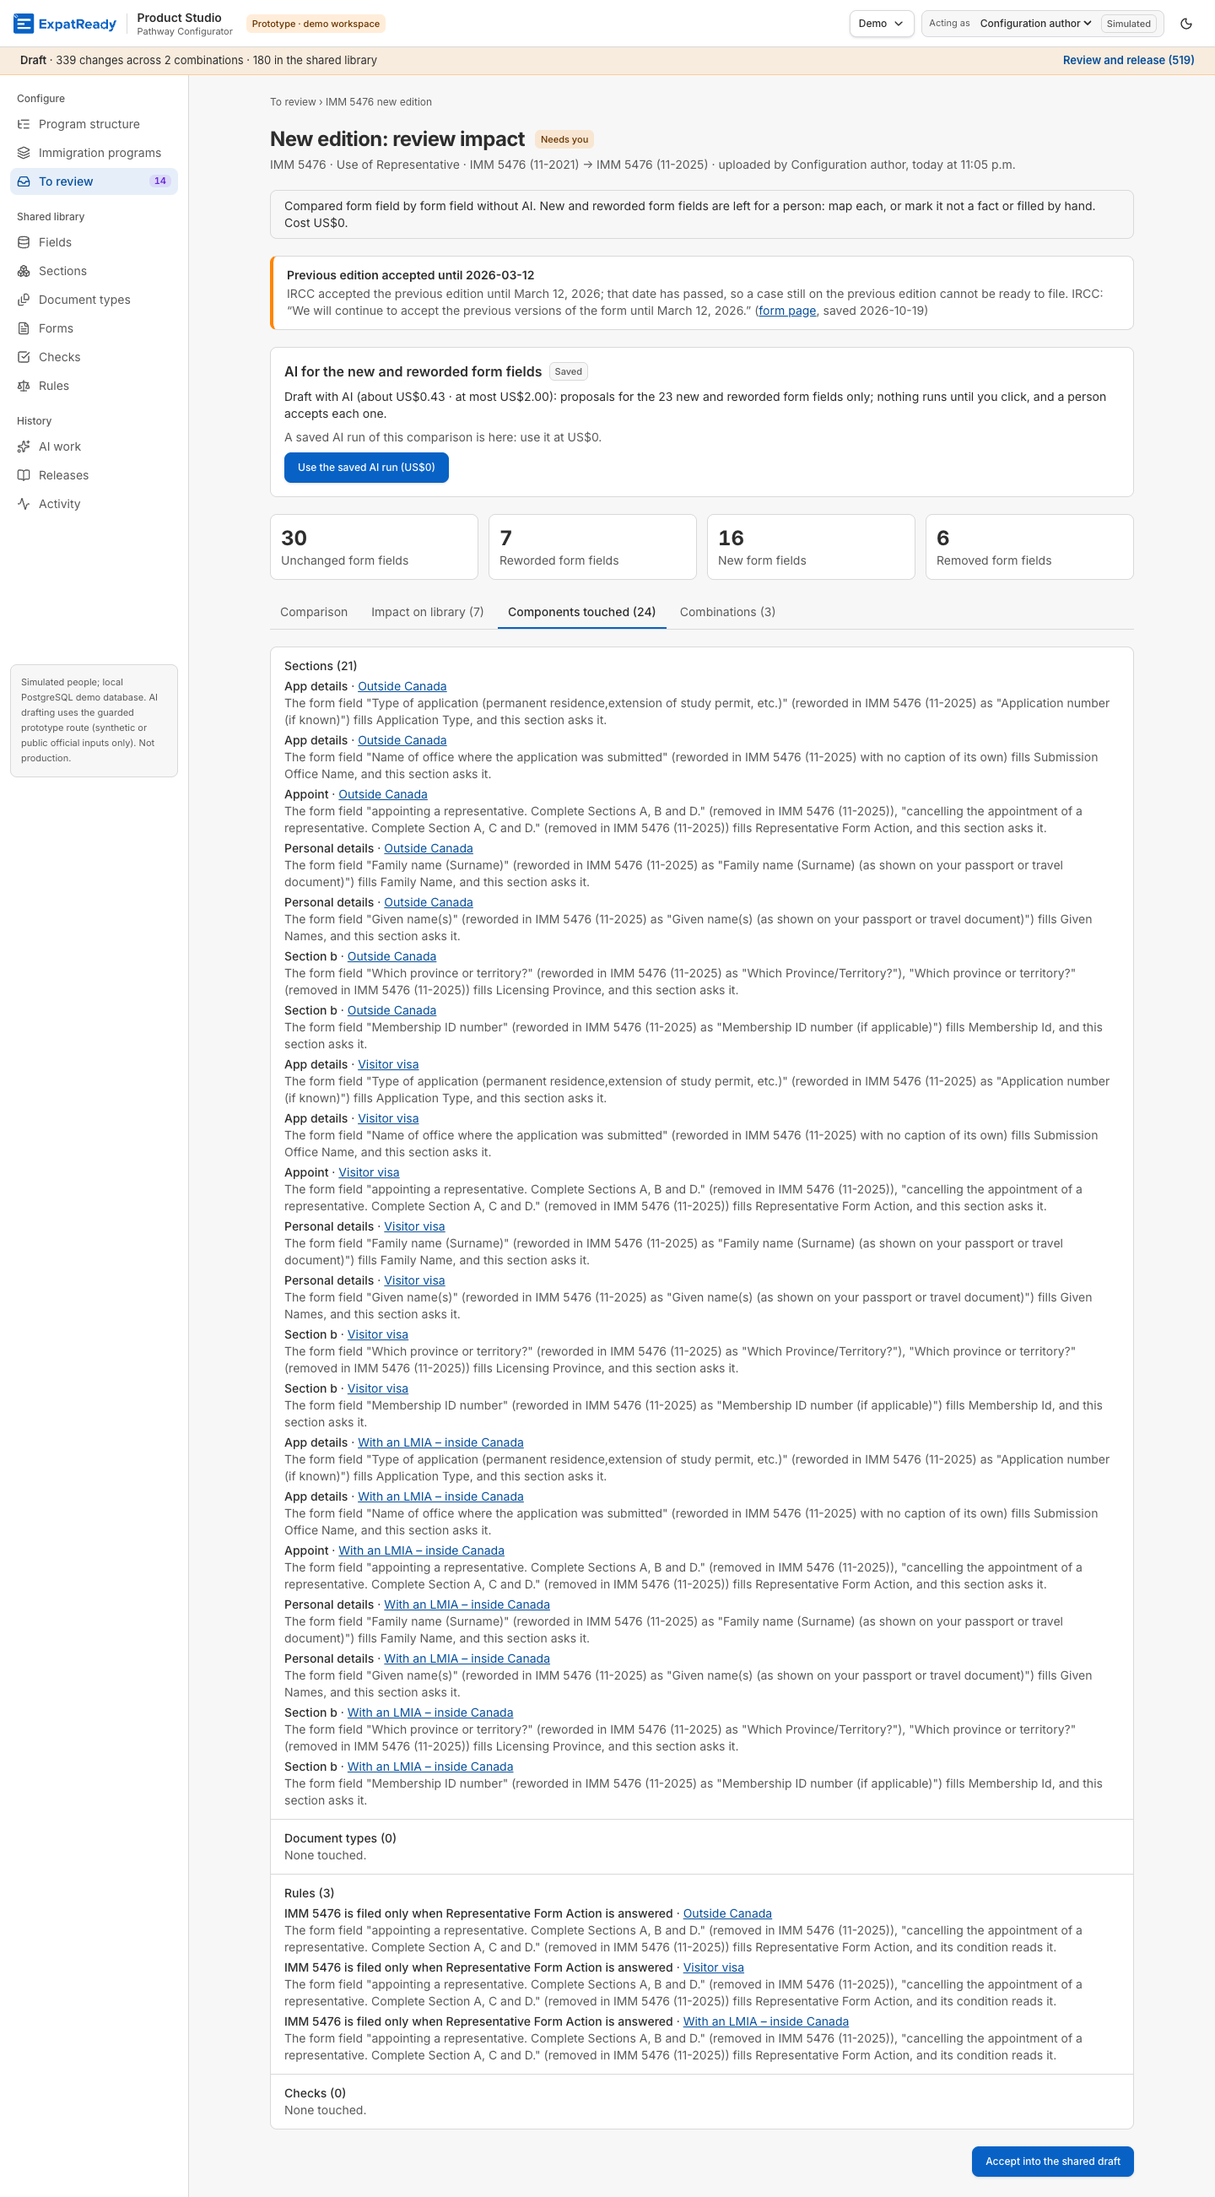
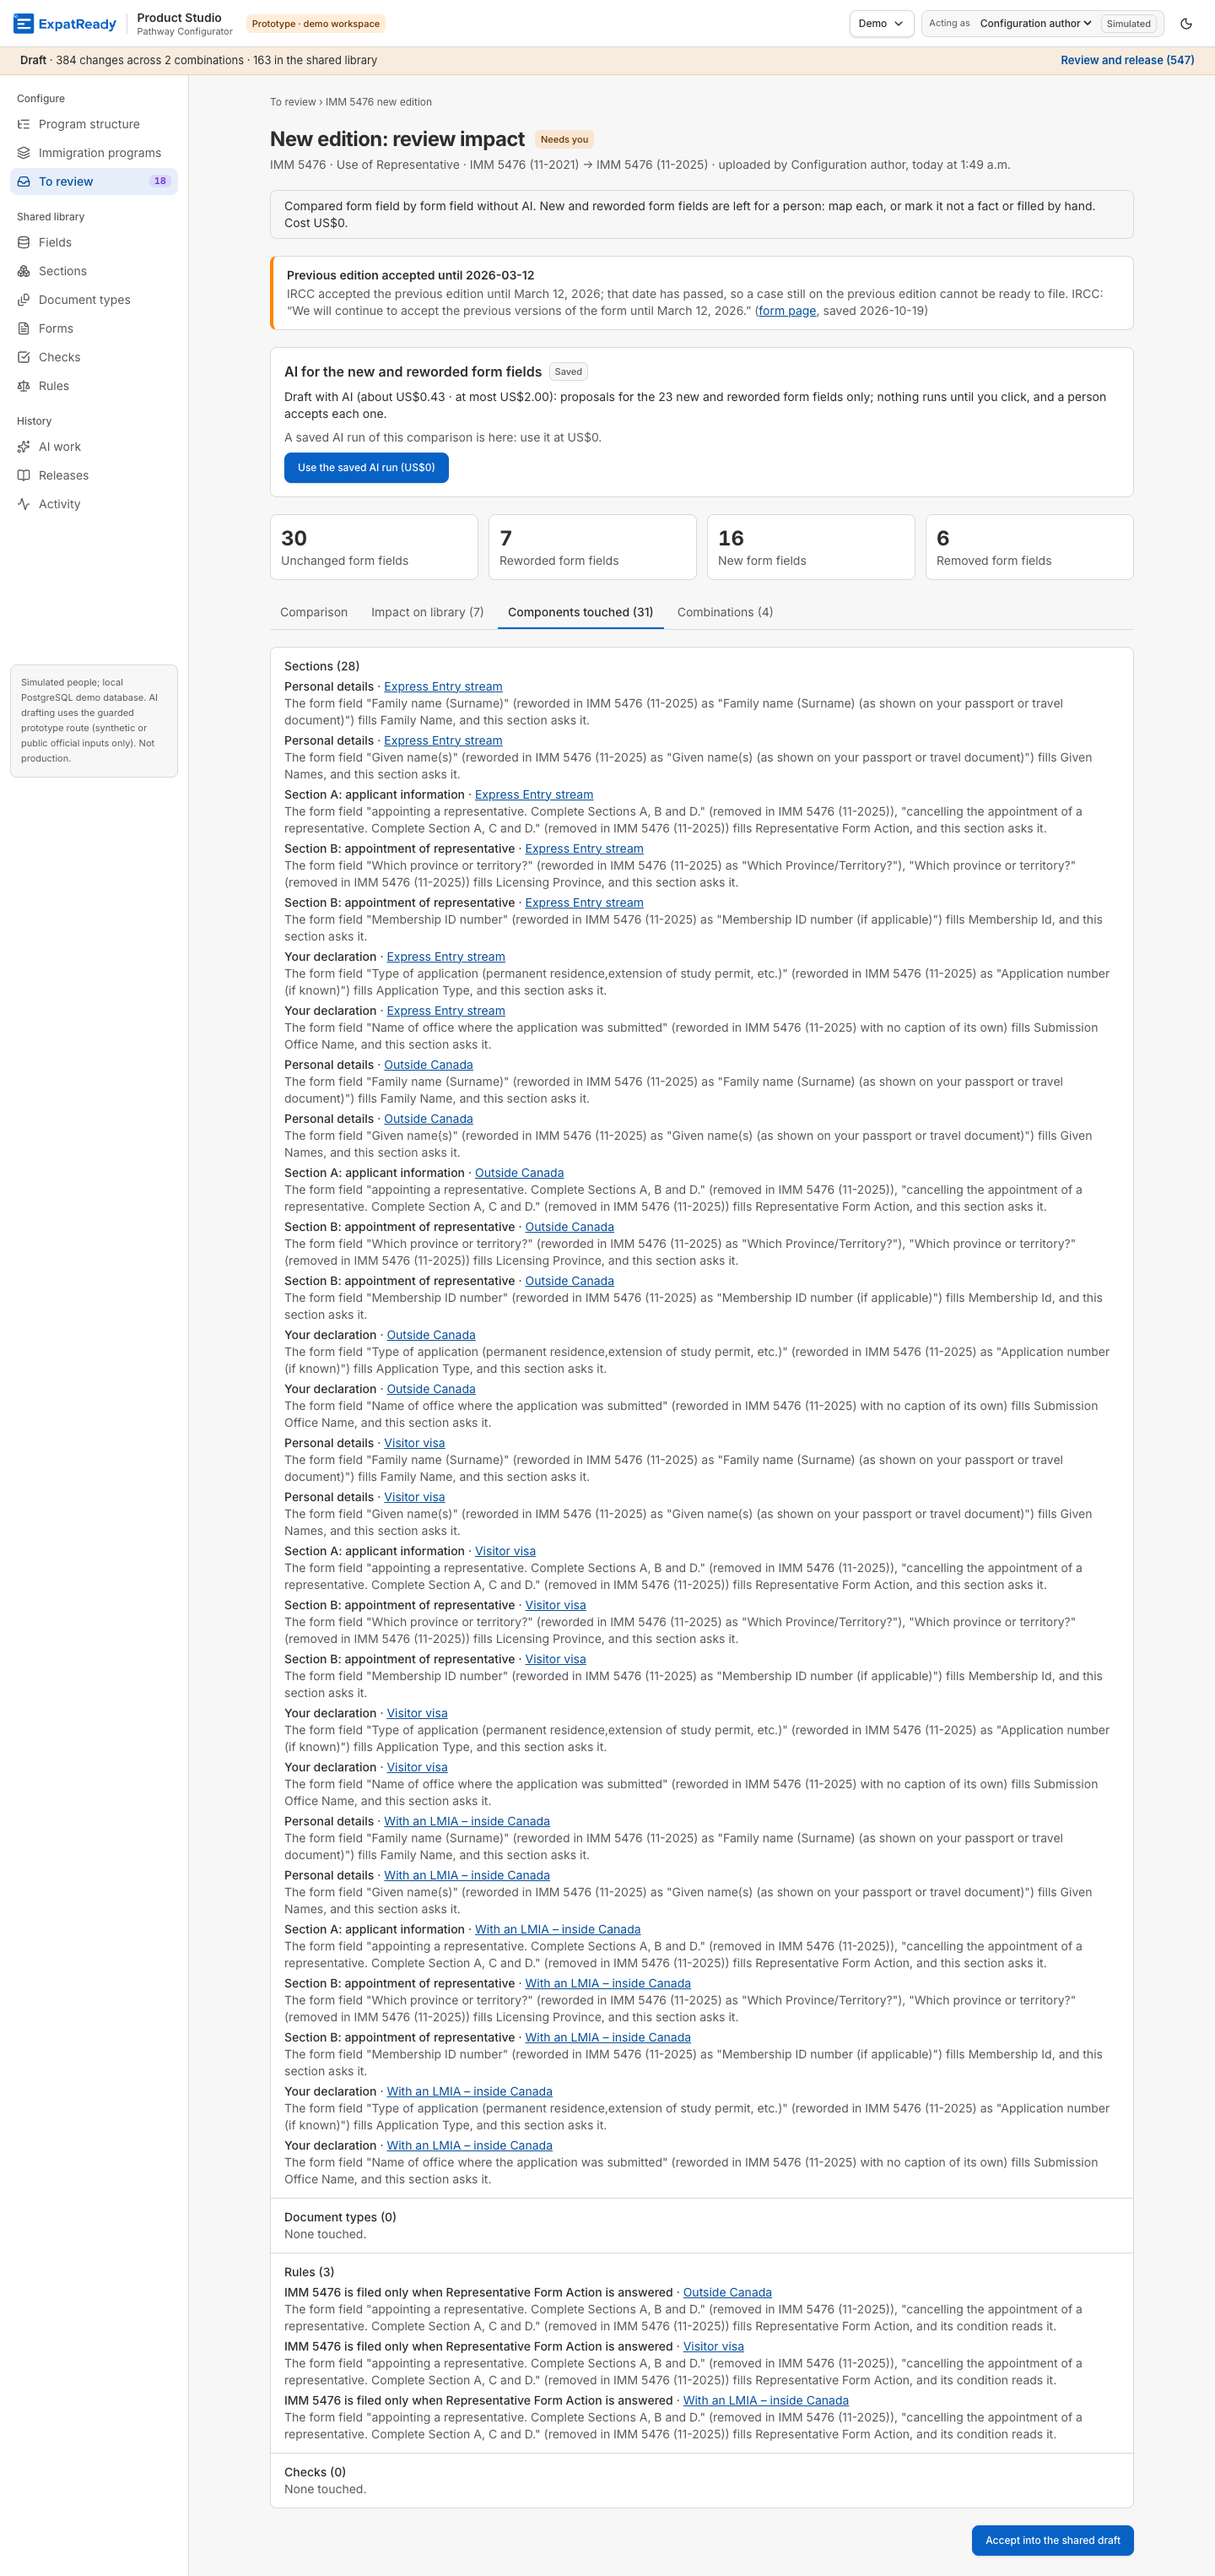
runtime: QA-231 after the merge — the walk reads its section names and counts from the review (QA-206 printed headings, a fourth combination); Opus round 3 (merge) Approve

diff --git a/ai-workers/problem-1-pathway-setup-and-form-filling/product/screens/QA-231-c91-checkpoint/review.md b/ai-workers/problem-1-pathway-setup-and-form-filling/product/screens/QA-231-c91-checkpoint/review.md
@@ -94,3 +94,6 @@ Re-run on a fresh isolated copy (`b8_rev`, :4473, stopped after; US$0, no live A
 Journey re-score: correct data ½→1 and next step unchanged. Plain words stays ½ (the SCH1 refusal text, "Section b"). **8.0 / 10, passes, no criterion at 0.**
 
 **Verdict: Approve** for head 98bbf8a2c. No open Blocker or Major. The two remaining Minors and O1/O2 are follow-ups.
+## Round 3 (merge 077815341, origin/main into b0fe7658f)
+**Conflict:** demo.ts's constructor keeps all three injections: main's ReviewProposals, and this PR's Runtime and CaseForms. All three are imported, there is no DI cycle, and row 11's call is unchanged (demo.ts:764). **Auto-merged files:** studio.ts keeps the K1 `words()` (:254-255). check_c10_1_configured.ts keeps every QA-231 and review-M1 line, beside main's QA-206 branches. The other files this PR touched are unchanged by the merge. **Re-run on the merged head** (fresh :4473, stopped after; US$0): check_c10_1_configured 36/36; C9.1 pack **17/17** (K1 is now green too); row 11 is unchanged (12 copies GENERATED; only the 3 SCH1 refusals). Row 17 now lists **4** combinations, because main's C11.7 part B adds IMM 5476 to Express Entry stream (draft, no form rule, so Rules is still 3). Main's QA-206 names the sections by their printed headings, giving 28 sections. 0 listed on a released combination without being asked. No clash.
+**Minor (stale evidence, not product):** tests/qa/check_qa231_walk.cjs is **12/13** on the merged head. `:45` still expects "Appoint" and "App details", which are now "Section A: applicant information", "Section B: appointment of representative" and "Your declaration". `:3` and `:46` still say "three combinations". The walk is not a CI suite (select-suites reads tests/ and tests/runtime only), but this PR's walk evidence (13/13) no longer holds at the merged head. Update `:45`, and `:46` if it should name Express Entry stream, before quoting it as evidence. **Verdict: Approve** for merge 077815341.
